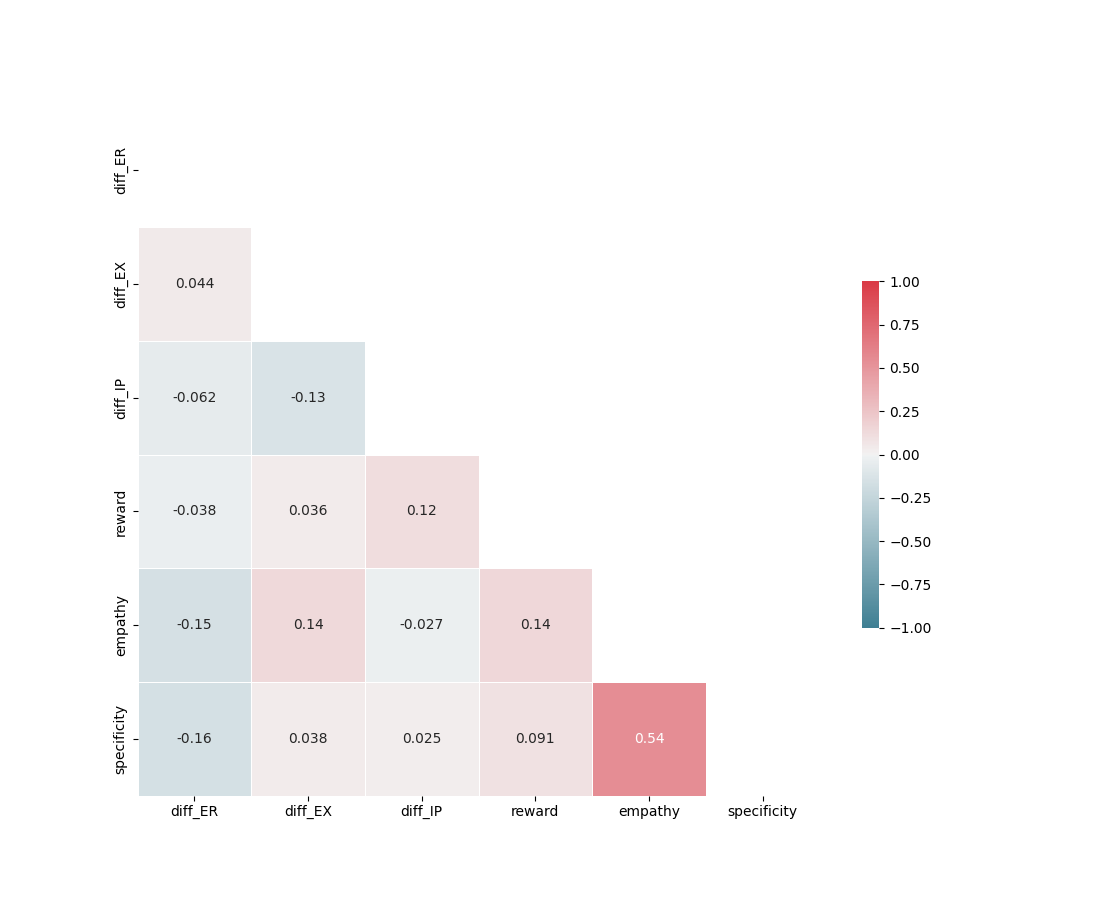
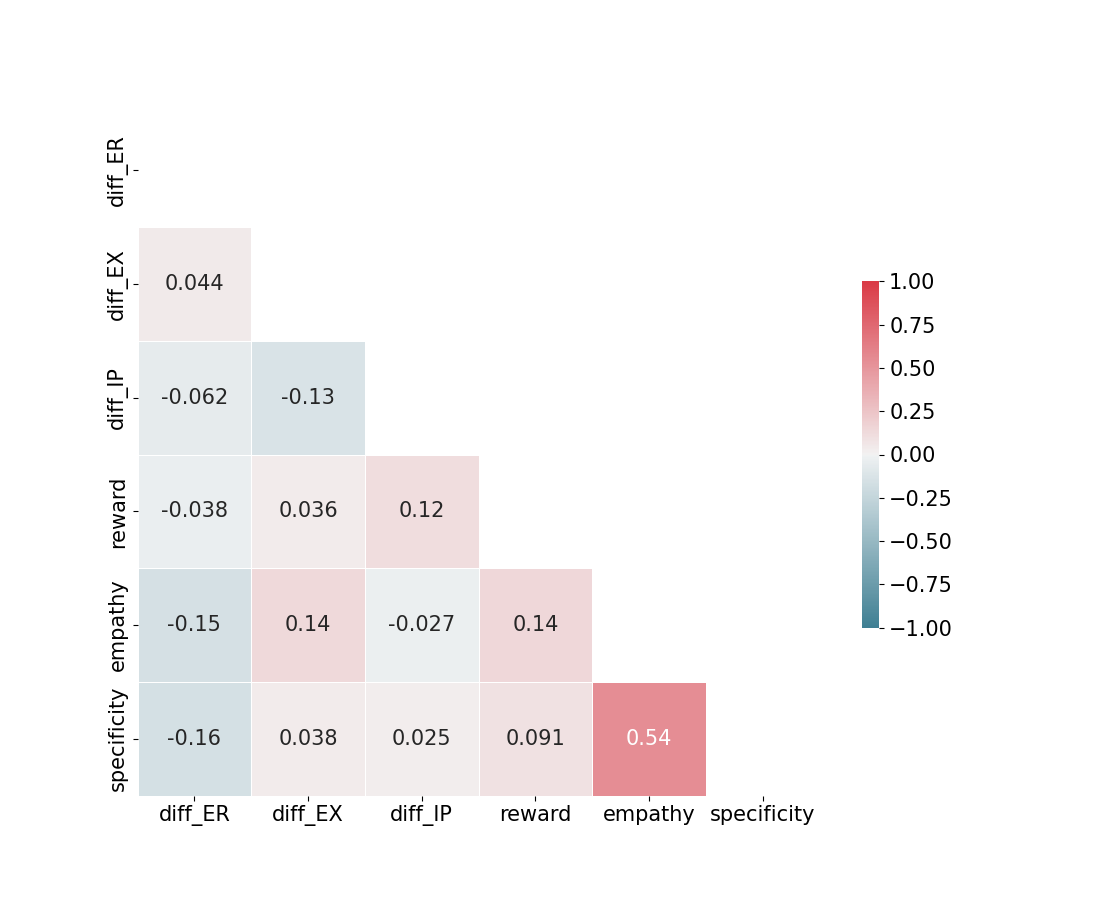
Changed font sizes in heatmapped matrices

diff --git a/empathy_survey/process_survey_results.py b/empathy_survey/process_survey_results.py
@@ -97,6 +97,7 @@ if __name__ == "__main__":
     mask[np.triu_indices_from(mask)] = True
 
     # Set up the matplotlib figure
+    plt.rcParams.update({'font.size': 20})
     f, _ = plt.subplots(figsize=(11, 9))
 
     # Generate a custom diverging colormap
@@ -117,7 +118,7 @@ if __name__ == "__main__":
         cbar_kws={"shrink": .5}  # Extra kwargs for the legend; in this case, shrink by 50%
     )
 
-    # You can save this as a png with
+    # Saving plot as png
     f.savefig(f"{working_dir}/results/heatmap_colored_correlation_matrix.png")
     
     print(f"\n----------------------Model ELO Ratings----------------------------\n")

diff --git a/src/evaluate.py b/src/evaluate.py
@@ -200,6 +200,7 @@ def main() -> None:
     mask[np.triu_indices_from(mask)] = True
 
     # Set up the matplotlib figure
+    plt.rcParams.update({'font.size': 15})
     f, _ = plt.subplots(figsize=(11, 9))
 
     # Generate a custom diverging colormap
